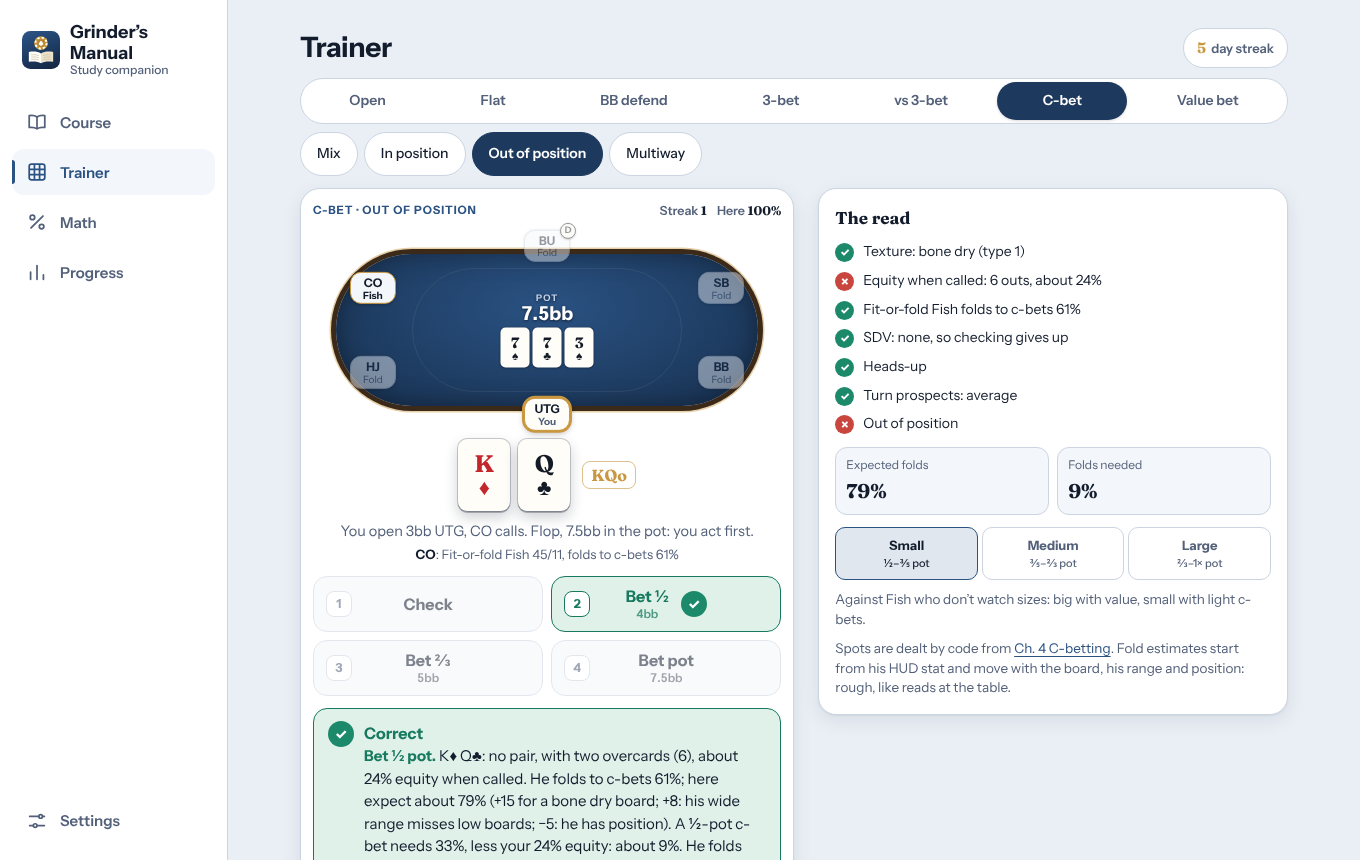
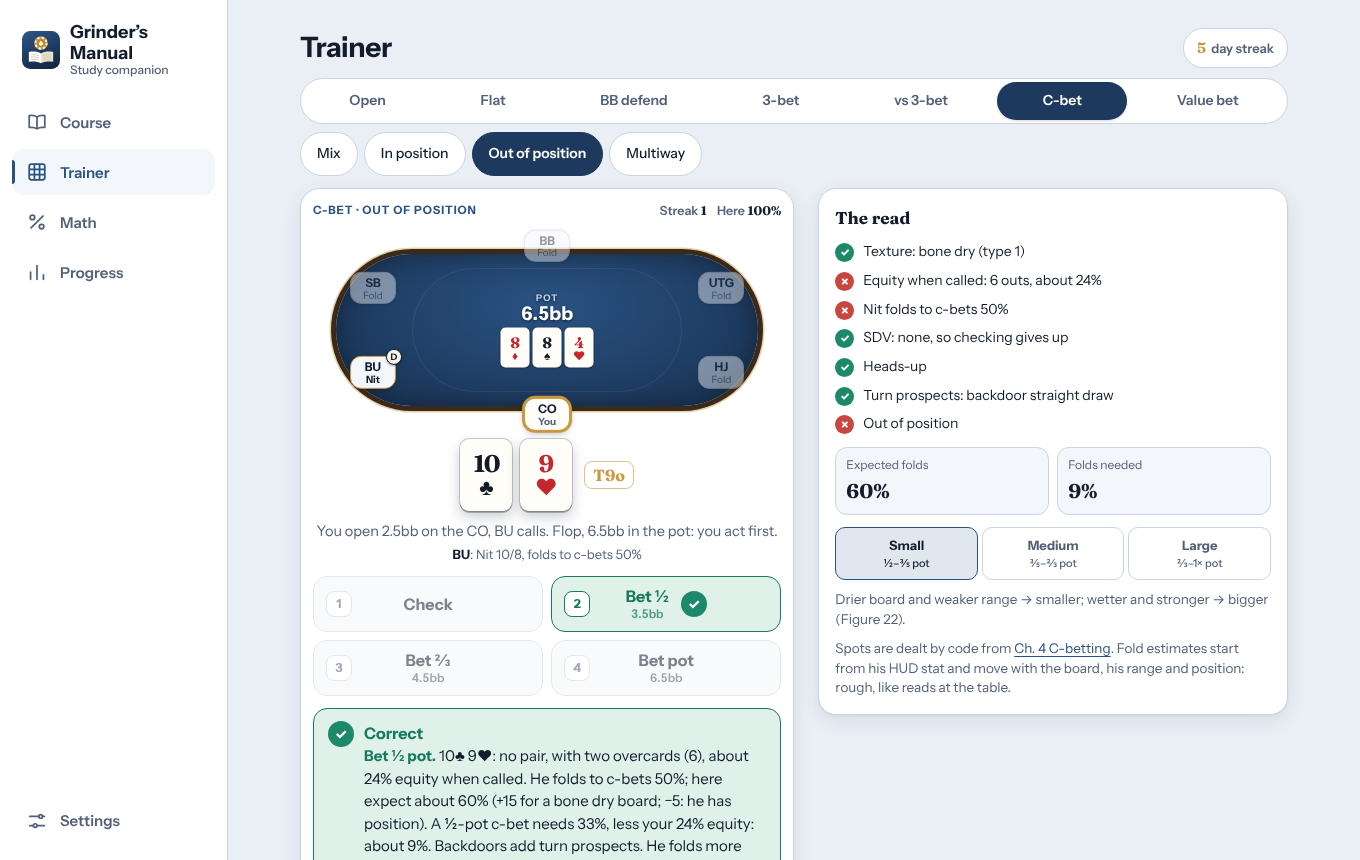
Label player types and actions on every table (v2.11.1)
Seats now show the player type the spot depends on (Fish, Nit, Reg,
3-bettor, ...) on one line and what they did on the next, the same way
on pre-flop and post-flop tables. A test checks that a spot naming a
player type shows it on the table.

Claude-Session: https://claude.ai/code/session_01WSPbWCX6AwDLBdZwwdxWUU

diff --git a/index.html b/index.html
@@ -582,10 +582,10 @@ const rangePct=set=>set.reduce((a,h)=>a+combos(h),0)/1326;
 const XMODES={
   'open-UTG-fish':{grp:'Open',label:'UTG · Fish',fig:6,seat:'UTG',info:'Folded to you UTG. The tight table has one big Fish in the BB who rarely folds.',opts:[['y','Raise 3x'],['f','Fold']],base:'UTG',add:L("66 55 44 33 22 A9s A8s A7s A6s A5s A4s A3s A2s 98s 87s ATo KJo")},
   'open-HJ-fish':{grp:'Open',label:'HJ · Fish/Nit',fig:8,seat:'HJ',info:'Folded to you in the HJ. A Fish or a Nit sits in the blinds, and nobody behind 3-bets light.',opts:[['y','Raise 3x'],['f','Fold']],base:'HJ',add:L("55 44 33 22 K9s Q9s J9s T8s 87s 76s KTo QJo")},
-  'open-HJ-def':{grp:'Open',label:'HJ · 3-bettor',fig:9,seat:'HJ',info:'Folded to you in the HJ. An aggressive Reg behind you 3-bets light.',opts:[['y','Raise 3x'],['f','Fold']],base:'HJ',drop:L("66 A8s A7s A6s 98s ATo KJo")},
+  'open-HJ-def':{grp:'Open',label:'HJ · 3-bettor',fig:9,seat:'HJ',info:'Folded to you in the HJ. An aggressive Reg on the BU 3-bets light.',opts:[['y','Raise 3x'],['f','Fold']],base:'HJ',drop:L("66 A8s A7s A6s 98s ATo KJo")},
   'open-CO-fish':{grp:'Open',label:'CO · Fish/Nit',fig:11,seat:'CO',info:'Folded to you in the CO. A Fish or a Nit sits in the blinds.',opts:[['y','Raise 3x'],['f','Fold']],base:'CO',add:L("K7s K6s K5s K4s K3s K2s Q8s J8s 86s 75s A8o A7o A6o A5o A4o A3o A2o K9o Q9o J9o")},
   'open-CO-nit':{grp:'Open',label:'CO · BU Nit',fig:12,seat:'CO',info:'Folded to you in the CO. The BU is a Nit, so the CO plays like a second button.',opts:[['y','Raise 2x'],['f','Fold']],base:'CO',add:L("K7s K6s K5s K4s K3s K2s Q8s Q7s Q6s J8s J7s T7s 86s 75s 64s 54s 43s A8o A7o A6o A5o A4o A3o A2o K9o K8o K7o Q9o Q8o Q7o J9o J8o T8o 98o")},
-  'open-CO-def':{grp:'Open',label:'CO · 3-bettor',fig:13,seat:'CO',info:'Folded to you in the CO. A light 3-bettor sits behind you.',opts:[['y','Raise 2.5x'],['f','Fold']],base:'CO',drop:L("55 44 33 22 K8s T8s 97s 76s 65s A9o KTo QTo JTo T9o")},
+  'open-CO-def':{grp:'Open',label:'CO · 3-bettor',fig:13,seat:'CO',info:'Folded to you in the CO. A light 3-bettor sits on the BU.',opts:[['y','Raise 2.5x'],['f','Fold']],base:'CO',drop:L("55 44 33 22 K8s T8s 97s 76s 65s A9o KTo QTo JTo T9o")},
   'call-SBvUTG':{grp:'Flat',label:'SB vs UTG',fig:33,seat:'SB',info:'UTG opens 3x, folds to you in the SB.',opts:[['c','Call'],['f','Fold']],tiers:[['c','in','Call vs UTG',"AA KK QQ JJ TT 99 88 AKs AQs AKo"]],scene:{bets:{UTG:3},did:{UTG:'Raise 3'}}},
   'call-SBvHJ':{grp:'Flat',label:'SB vs HJ',fig:33,seat:'SB',info:'HJ opens 3x, folds to you in the SB.',opts:[['c','Call'],['f','Fold']],tiers:[['c','in','Call vs UTG',"AA KK QQ JJ TT 99 88 AKs AQs AKo"],['c','t2','+ vs HJ',"AJs KQs AQo"]],scene:{bets:{HJ:3},did:{HJ:'Raise 3'}}},
   'call-SBvCO-fish':{grp:'Flat',label:'SB vs CO · Fish BB',fig:34,seat:'SB',info:'CO opens 3x, folds to you in the SB. A Fish is in the BB.',opts:[['c','Call'],['f','Fold']],tiers:[['c','in','Call vs CO 3x',"AA KK QQ JJ TT 99 88 77 66 AKs AQs AJs ATs A9s KQs KJs KTs QJs QTs JTs T9s AKo AQo AJo KQo"]],scene:{bets:{CO:3},did:{CO:'Raise 3'}}},
@@ -607,9 +607,17 @@ const XMODES={
   'f3-COvSB':{grp:'vs 3-bet',label:'CO vs SB',fig:64,seat:'CO',info:'You open 2.5x in the CO. A Reg in the SB 3-bets to 9. Everyone else folds.',opts:[['r','4-bet'],['c','Call'],['f','Fold']],tiers:[['r','in','4-bet, call a shove',"AA KK QQ AKs AKo"],['r','t3','4-bet, fold to a shove',"A9s A8s A5s A4s A3s A2s KTs KJo"],['c','cl','Call',"JJ TT 99 AQs AJs ATs KQs KJs QJs JTs AQo AJo KQo"],['f','','Fold',"88 77 66 55 44 33 22 A7s A6s K9s K8s QTs Q9s J9s T9s T8s 98s 97s 87s 76s 65s ATo A9o KTo QJo QTo JTo T9o"]],scene:{bets:{SB:9},did:{SB:'3-bet 9'},me:2.5,after:true},pool:true},
   'f3-BUvBB':{grp:'vs 3-bet',label:'BU vs BB',fig:65,seat:'BU',info:'You open 2x on the BU. A Reg in the BB (13% 3-bet) re-raises to 8.',opts:[['r','4-bet'],['c','Call'],['f','Fold']],tiers:[['r','in','4-bet, call a shove',"AA KK QQ JJ AKs AKo"],['r','t3','4-bet, fold to a shove',"K8s K7s K6s K5s K4s K3s K2s A9o A8o A5o K9o K8o"],['c','cl','Call',"TT 99 88 77 AQs AJs ATs A9s A8s A7s A6s A5s A4s A3s A2s KQs KJs KTs K9s QJs QTs Q9s JTs J9s T9s T8s 98s 97s 87s 76s AQo AJo ATo KQo KJo KTo QJo QTo"],['f','','Fold',"66 55 44 33 22 Q8s Q7s Q6s Q5s Q4s Q3s Q2s J8s J7s J6s T7s T6s 96s 86s 75s 65s 64s 54s 53s 43s 32s A7o A6o A4o A3o A2o Q9o Q8o JTo J9o J8o T9o T8o 98o 87o"]],scene:{bets:{BB:8},did:{BB:'3-bet 8'},me:2,after:true},pool:true},
   'f3-HJvSB':{grp:'vs 3-bet',label:'HJ vs SB Fish',fig:66,seat:'HJ',info:'You open 3x in the HJ. A passive Fish in the SB, who almost never 3-bets, makes it 8.',opts:[['r','4-bet'],['c','Call'],['f','Fold']],tiers:[['r','in','4-bet, call a shove',"AA"],['c','cl','Call',"KK QQ JJ TT 99 88 77 66 T9s 98s"],['f','','Fold',"AKs AQs AJs ATs A9s A8s A7s A6s A5s A4s A3s A2s KQs KJs KTs QJs QTs JTs AKo AQo AJo ATo KQo KJo"]],scene:{bets:{SB:8},did:{SB:'3-bet 8'},me:3,after:true},pool:true},
-  'f3-COvBU40':{grp:'vs 3-bet',label:'CO vs BU 40bb',fig:80,seat:'CO',info:'You open 2.5x in the CO. The BU, who has only 40bb, 3-bets to 6.',opts:[['r','Shove'],['c','Call'],['f','Fold']],tiers:[['r','in','Shove',"AA KK QQ JJ TT 99 88 77 66 55 44 33 22 AKs AQs AJs ATs AKo AQo"],['c','cl','Call',"KQs KJs KTs QJs QTs JTs T9s AJo KQo"],['f','','Fold',"A9s A8s A7s A6s A5s A4s A3s A2s K9s K8s Q9s J9s T8s 98s 97s 87s 76s 65s ATo A9o KJo KTo QJo QTo JTo T9o"]],scene:{bets:{BU:6},did:{BU:'3-bet 6 · 40bb'},me:2.5,after:true},pool:true},
+  'f3-COvBU40':{grp:'vs 3-bet',label:'CO vs BU 40bb',fig:80,seat:'CO',info:'You open 2.5x in the CO. The BU, who has only 40bb, 3-bets to 6.',who:{BU:'40bb'},opts:[['r','Shove'],['c','Call'],['f','Fold']],tiers:[['r','in','Shove',"AA KK QQ JJ TT 99 88 77 66 55 44 33 22 AKs AQs AJs ATs AKo AQo"],['c','cl','Call',"KQs KJs KTs QJs QTs JTs T9s AJo KQo"],['f','','Fold',"A9s A8s A7s A6s A5s A4s A3s A2s K9s K8s Q9s J9s T8s 98s 97s 87s 76s 65s ATo A9o KJo KTo QJo QTo JTo T9o"]],scene:{bets:{BU:6},did:{BU:'3-bet 6'},me:2.5,after:true},pool:true},
 };
 Object.assign(MODES,XMODES);
+/* Who sits where, when the spot depends on it: shown on the table as "type · action", like the post-flop spots
+   (short names as in PF_TYPES: Reg, Nit, Fish, Station, Aggro). */
+const WHO={'open-UTG-fish':{BB:'Station'},'open-HJ-fish':{BB:'Fish/Nit'},'open-CO-fish':{BB:'Fish/Nit'},'open-CO-nit':{BU:'Nit'},
+  'open-HJ-def':{BU:'3-bettor'},'open-CO-def':{BU:'3-bettor'},'call-SBvCO-fish':{BB:'Fish'},'call-SBvBU-fish':{BB:'Fish'},
+  'call-SBvCO-nit':{BB:'Nit'},'call-SBvBU-nit':{BB:'Nit'},'3b-BUvHJ':{HJ:'Reg'},'3b-BBvBU':{BU:'Reg'},'3b-COvUTG':{UTG:'Aggro'},
+  '3b-SBvCO':{CO:'Reg'},'sq-BB':{BU:'Reg',SB:'Reg'},'sq-SB':{HJ:'Reg',BU:'Fish'},'f3-COvSB':{SB:'Reg'},'f3-BUvBB':{BB:'Reg'},
+  'f3-HJvSB':{SB:'Fish'}};
+Object.entries(WHO).forEach(([k,w])=>{MODES[k].who=Object.assign(MODES[k].who||{},w);});
 /* Every spot in one shape: opts = the answers [key, label]; tiers = [key, css, legend, hands] colour the chart and
    give each hand its answer (first tier wins, anything else is a fold); ans = hand -> key; pool = the only hands dealt
    (vs-3-bet spots deal only hands from your opening range). The original Ch. 2 and Ch. 6 spots are two-answer spots. */
@@ -1521,7 +1529,7 @@ const revIsDue=(it,now,count)=>it.t?now>=it.t:count>=it.n;
 function revDue(list,keys,now,count){return list.filter(it=>keys.includes(it.k)&&revIsDue(it,now,count));}
 
 /* ===================== UI (everything below needs a browser) ===================== */
-var BUILD={v:"2.11.0",at:"2026-11-20T08:15Z"};
+var BUILD={v:"2.11.1",at:"2026-11-20T17:18Z"};
 const $=(s,r=document)=>r.querySelector(s);
 const $$=(s,r=document)=>[...r.querySelectorAll(s)];
 
@@ -1732,6 +1740,8 @@ const bb=x=>(x%1?x.toFixed(1):x)+'';
 /* The table for a spot. scene: bets (chips in front), did (what each player did), me (your chips when you opened
    first), after (you opened and now face a 3-bet: everyone who did not act has folded). Without a scene, the original
    spots: blinds posted and, for a call spot, a 3bb raise from md.vill. Folded blinds' chips sit in the pot. */
+/* A seat's label on every table: its player type (when the spot names one) on one line, what it did on the next. */
+const seatLines=(who,act)=>[who,act].filter(Boolean).map(x=>`<i>${x}</i>`).join('')||'<i></i>';
 function tableHTML(md){
   const sc=md.scene||{bets:md.vill?{[md.vill]:3}:{},did:md.vill?{[md.vill]:'Raise 3'}:{}};
   const hi=SEATS6.indexOf(md.seat),n=6,chips=Object.assign({SB:.5,BB:1},sc.bets);
@@ -1740,9 +1750,9 @@ function tableHTML(md){
   let h=`<div class="ptable" role="img" aria-label="${md.info.replace(/"/g,'')}"><div class="oval"></div><div class="tcenter"><span class="pot"><small>Pot</small><b>${bb(pot)}bb</b></span></div>`;
   SEATS6.forEach((s,j)=>{
     const a=(90+(j-hi)*360/n)*Math.PI/180,cx=Math.cos(a),cy=Math.sin(a);
-    const you=j===hi,did=sc.did&&sc.did[s],fold=!you&&!did&&(sc.after||j<hi);
-    const sub=you?(sc.after?'You · '+bb(sc.me):'You'):did||(fold?'Fold':'');
-    h+=`<div class="st${you?' you':''}${fold?' fold':''}${did?' acted':''}" style="left:${(50+43*cx).toFixed(1)}%;top:${(50+41*cy).toFixed(1)}%">${s==='BU'?'<span class="dbtn" aria-label="dealer button">D</span>':''}<b>${s}</b><i>${sub}</i></div>`;
+    const you=j===hi,did=sc.did&&sc.did[s],fold=!you&&!did&&(sc.after||j<hi),who=!fold&&md.who&&md.who[s];
+    const sub=you?(sc.after?'You · '+bb(sc.me):'You'):seatLines(who,did||(fold?'Fold':''));
+    h+=`<div class="st${you?' you':''}${fold?' fold':''}${did||who?' acted':''}" style="left:${(50+43*cx).toFixed(1)}%;top:${(50+41*cy).toFixed(1)}%">${s==='BU'?'<span class="dbtn" aria-label="dealer button">D</span>':''}<b>${s}</b>${you?`<i>${sub}</i>`:sub}</div>`;
     if(chips[s]&&!fold)h+=`<span class="stk ${chips[s]>=2?'d2':'d1'}" style="left:${(50+25*cx).toFixed(1)}%;top:${(50+21*cy).toFixed(1)}%">${bb(chips[s])}</span>`;
   });
   return h+'</div>';
@@ -1820,8 +1830,8 @@ function postTableHTML(p,deal){
   let h=`<div class="ptable post" role="img" aria-label="${esc(p.info.replace(/<[^>]+>/g,''))}"><div class="oval"></div><div class="tcenter"><span class="pot"><small>Pot</small><b>${bb(p.pot)}bb</b></span><span class="pboard">${p.board.map(c=>cardHTML(c[0],c[1],' mini'+deal)).join('')}</span></div>`;
   SEATS6.forEach((s,j)=>{
     const a=(90+(j-hi)*360/6)*Math.PI/180,cx=Math.cos(a),cy=Math.sin(a),you=s===p.seat,inh=inn.has(s);
-    const sub=you?'You':inh?(p.sub[s]+(p.did[s]==='Check'?' · Check':'')):'Fold';
-    h+=`<div class="st${you?' you':''}${inh?'':' fold'}${inh&&!you?' acted':''}" style="left:${(50+43*cx).toFixed(1)}%;top:${(50+41*cy).toFixed(1)}%">${s==='BU'?'<span class="dbtn" aria-label="dealer button">D</span>':''}<b>${s}</b><i>${sub}</i></div>`;
+    const sub=you?'<i>You</i>':seatLines(inh&&p.sub[s],inh?(p.did[s]==='Check'?'Check':''):'Fold');
+    h+=`<div class="st${you?' you':''}${inh?'':' fold'}${inh&&!you?' acted':''}" style="left:${(50+43*cx).toFixed(1)}%;top:${(50+41*cy).toFixed(1)}%">${s==='BU'?'<span class="dbtn" aria-label="dealer button">D</span>':''}<b>${s}</b>${sub}</div>`;
   });
   return h+'</div>';
 }

diff --git a/sw.js b/sw.js
@@ -1,4 +1,4 @@
-const CACHE = "grinders-manual-2.11.0";
+const CACHE = "grinders-manual-2.11.1";
 const FILES = ["./", "index.html", "manifest.webmanifest", "icon.svg", "icon-192.png", "icon-512.png", "icon-maskable-512.png", "apple-touch-icon.png",
   "fonts/fraunces-latin-500-normal.woff2", "fonts/fraunces-latin-700-normal.woff2", "fonts/instrument-sans-latin-400-normal.woff2",
   "fonts/instrument-sans-latin-500-normal.woff2", "fonts/instrument-sans-latin-600-normal.woff2", "fonts/instrument-sans-latin-700-normal.woff2"];

diff --git a/CLAUDE.md b/CLAUDE.md
@@ -27,6 +27,7 @@ Everything above `/* ===================== UI` is data and pure functions; the t
 - Colour roles: `--felt*` is the navy primary (table, primary buttons, hero card; the name is historical), `--gold` the brass accent, `--accent` links and the active tab. Right and wrong use only `--good*` and `--bad*` (teal-green, brick-red, with `-mark` for the ✓/✗ circles); never colour a right answer with the primary.
 - Touch feedback: `.press` is added on `pointerdown` (touch browsers apply `:active` late), the picked answer pops or shakes, and right/wrong options get ✓/✗ marks. Touch screens hide the 1–4 key badges and the keyboard help (`.kbd-only`). No vibration (the owner asked for visual feedback only).
 - Chart colours (v2.11, owner asked for consistency): one family per action in every chart, set in the MODES normalisation from the option label: navy `in`/`in2`/`in3` = raise (open, 3-bet, squeeze, 4-bet, shove), teal `cl`/`cl2`/`cl3` = call, grey = fold, hatched `dyn` = a default open you fold here. Tests enforce it.
+- Seat labels (v2.11.1, owner asked for consistency): every table, pre-flop and post-flop, labels a seat with `seatLines(type, action)`: the player type on one line when the spot names one (`WHO` map for the chart spots, `PF_TYPES.short` for post-flop: Reg, Nit, Fish, Station, Aggro, Fish/Nit, 3-bettor, 40bb), what the seat did on the next (Raise 3, Call 3, 3-bet 8, Check, Fold). A test fails if a spot's info names a player type the table doesn't show.
 - Cards show **10**; labels and charts use **T**. Suits are two-colour (red hearts and diamonds).
 - Before adding a CSS class, search the file for the name. v2.0.1 reused `mid` (the table’s pot-centring class) for a 5/6 quiz result and for 75–90% progress bars, and both floated over the page as absolute boxes (holdem-drill had the same bug with `chips`). The tests now fail if a class with its own rule is also used as a modifier.
 - Keyboard: 1–4 answer, Enter next, ← → lesson pages, R / C / F in the range trainer (first answer, call, fold).
